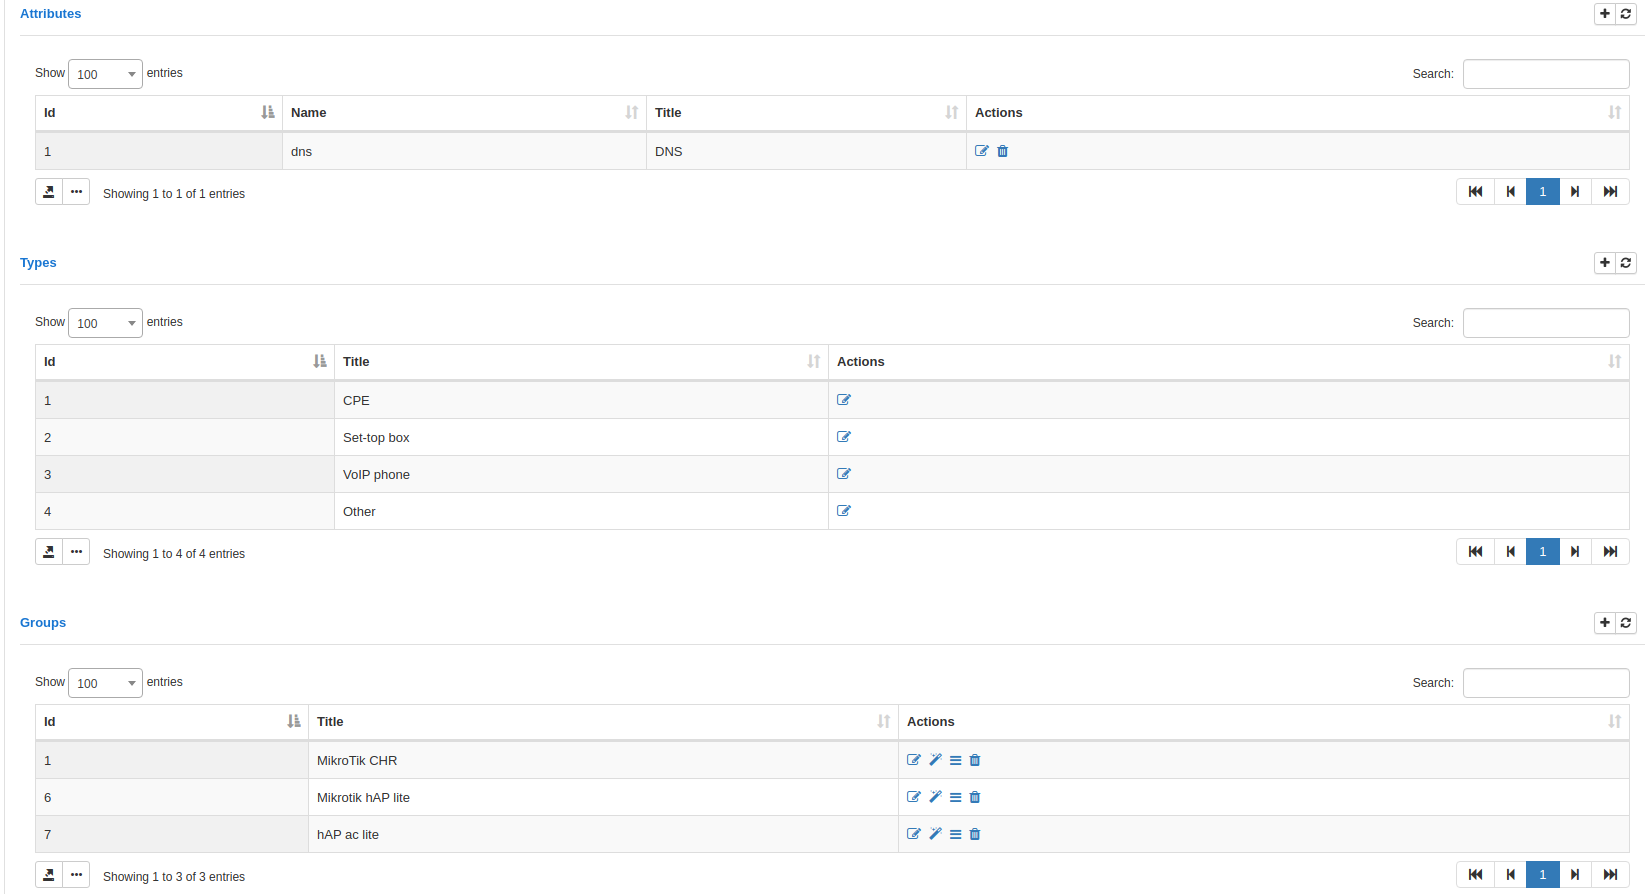
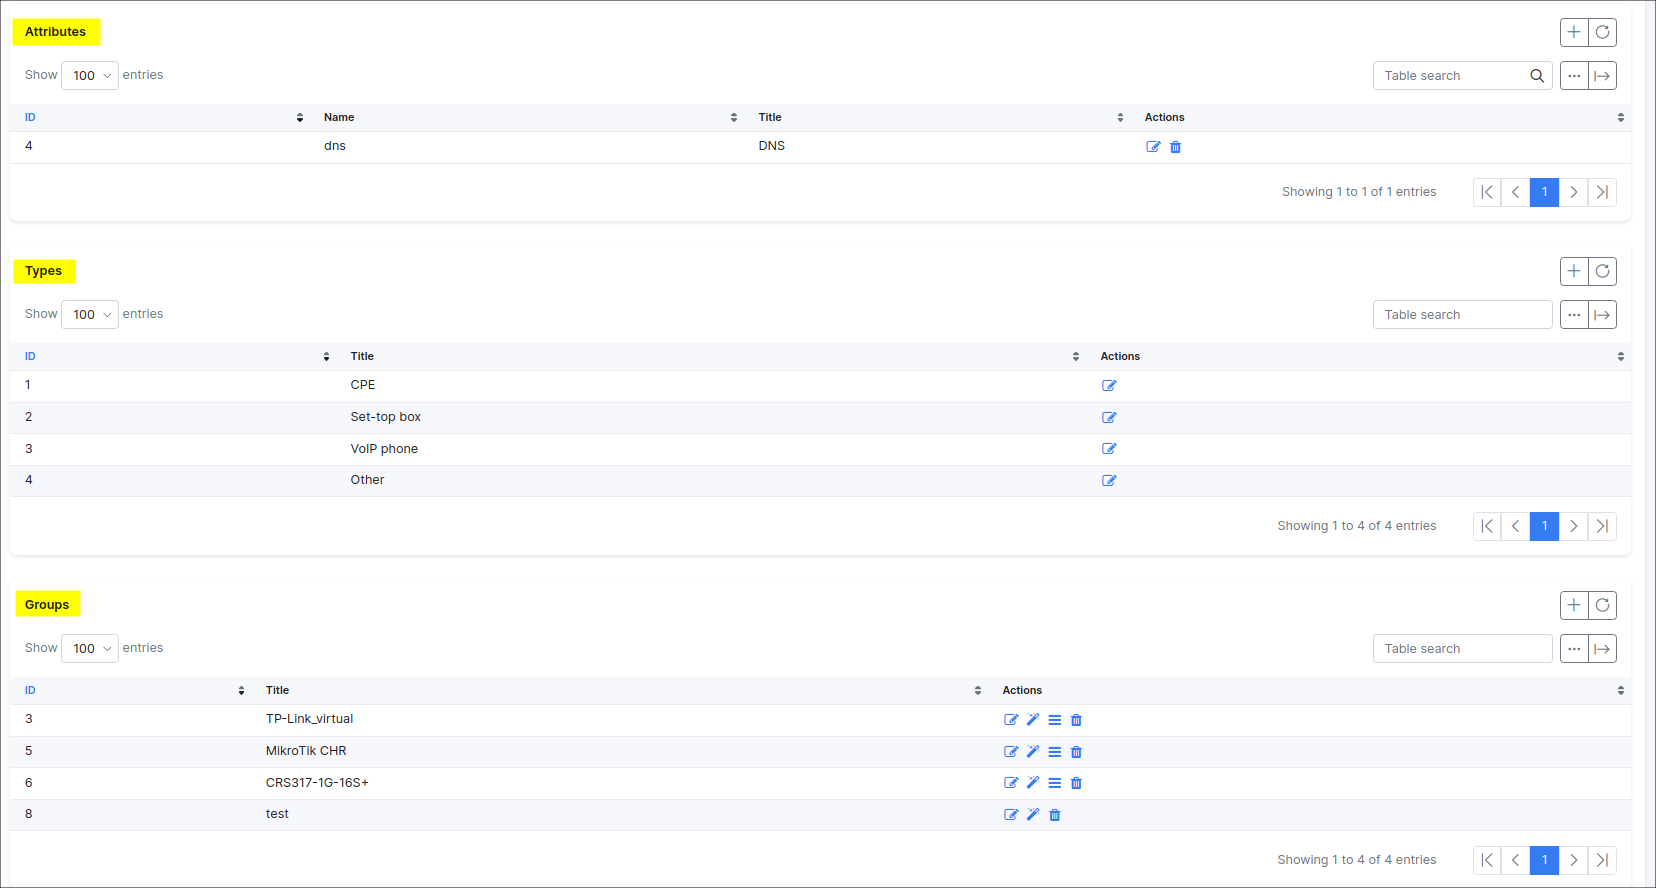
added new info to dev_connection_types_groups_provision

diff --git a/files/en/networking/tr069_acs/dev_connection_types_groups_provision/dev_connection_types_groups_provision.md b/files/en/networking/tr069_acs/dev_connection_types_groups_provision/dev_connection_types_groups_provision.md
@@ -25,21 +25,21 @@ Click on **TR069** item and configure **connection to the ACS server**:
 
 1. Put the check-mark to **Enable** client;
 
-2. Put your **ACS URL** - it's a *URL* from menu on **step 3** for a *CWMP* (ends with port `:7547/`);
+2. Put your **ACS URL** - it's a *URL* from menu on [step 3](networking/tr069_acs/services_server_config/services_server_config.md) for a *CWMP* (ends with port `:7547/`);
 
 ![URL](urls.png)
 
 In our example, we are using the *domain name* instead of IP address - *192.168.105.80*.
 
-3. Specify username and password with values from **global** parameters (**step 1**);
+3. Specify username and password with values from **global** parameters ([step 1](networking/tr069_acs/services_server_config/services_server_config.md));
 
-4. Enable **Periodic Inform Enabled** option.
+4. Enable **Periodic inform interval (seconds)** option.
 
 After these steps you should have the next result:
 
 ![connected](connected_device.png)
 
-The values in **Connection Request Username** and **Connection Request Password** fields should appear automatically. **Do not change these values unless absolutely necessary** (e.g. when you need to reconnect your device with an ACS server, these values can be removed and re-enable client - with new connection you will see a new values)..
+The credentials in **Connection Request Username** and **Connection Request Password** fields should appear automatically. **Do not change these credentials unless absolutely necessary** (e.g. when you need to reconnect your device with an ACS server, these values can be removed and re-enable client - with new connection you will see a new credentials).
 
 **IMPORTANT (for Mikrotik devices only)**: if you are using **HTTPS/SSL** on your Splynx server you can get **an error about SSL, asking for the local certificate**. In this case you need to run 2 commands in Mikrotik terminal:
 
@@ -51,7 +51,7 @@ The values in **Connection Request Username** and **Connection Request Password*
 ```
 
 <details style="font-size: 15px; margin-bottom: 5px;">
-<summary><b>To remove the expired cert use the next</b></summary>
+<summary><b>To remove the expired certificate use the next command</b></summary>
 <div markdown="1">
 
 Example:
@@ -65,7 +65,7 @@ Example:
 </div>
 </details>
 
-and **do not change any other config in TR-069 client** (**Client certificate** option must be "none"), just **re-enable TR-069 client**.
+and **do not change any other config in TR-069 client** (`Client certificate` **option must be `none`**), just **re-enable TR-069 client**.
 
 After that device will be registered under GenieACS:
 
@@ -77,7 +77,7 @@ as well as under Splynx:
 
 Devices can be in the following statuses: `Online`, `Online today`, `Offline`.
 
-Main parameters for ACS are configured and device is connected so you can manage the device remotely now. Also we have a few more options to configure: **Attributes**, **Types** and **Groups**.
+Main parameters for ACS are configured and device is connected so you can manage the device remotely now. Also we have a few more options to configure: **Attributes**, **Types** and **Groups** in `Config → Networking → TR-069 (ACS)`.
 
 ![additional config](more_config.png)
 
@@ -89,19 +89,31 @@ Simply add different types of devices:
 
 ## Groups:
 
-**NOTE!** Before configuring ACS groups you need to connect some device to ACS server.
+**NOTE!** Before configuring ACS groups you need to connect some device to ACS server (navigate to `Networking → Routers → Add` and follow the steps of wizard, TR-069 should be configured on the router).
 
-Under groups you can create new entries to group devices.
+Under **Groups** you can create new entries to group devices. Press **Add** button and in a new window select the required parameters, the inventory [product](inventory/products/products.md) name (if existed), selected photo of device etc.
+
+<icon class="image-icon">![image](warning.png)</icon> **IMPORTANT**
+
+It is recommended that you leave the option **Auto provisioning** `disabled` **to prevent an automatic upload of an incomplete configuration to your device.
+Otherwise, the current device configuration can be erased and it can be unavailable remotely**.
 
 ![groups](groups.png)
 
-Here can be selected the next parameters and the inventory [product](inventory/products/products.md) name (if existed), selected photo of device etc. You can use auto-provision feature to grab some parameters from a device.
 
 ## Provisioning flow
 
-Groups is used for **auto-provision** devices and load device's parameters and properties from the correct TR069 attributes.
+**Groups** are used for **auto-provision** devices and load device's parameters and properties with the correct TR069 attributes.
 
-Once some device is added you can create a group base on that device, provision the configuration parameters from that device, edit such parameters and save. After that these parameters can be used for configuration of other devices based on this group, using previously exported parameters.
+Once some device is added you can create a group base on that device, grab the configuration parameters from that device, edit such parameters and save (in this case, use `I have one device and ready to play with manual insert of parameters` provision configuration flow).
+
+**IMPORTANT**
+
+When the correct configuration is grabbed from the device, **it's recommended to remove unnecessary attributes and leave only those attributes that you plan add/update etc. on other devices**.
+
+After that these attributes can be used for configuration of other devices based on this group, using previously exported parameters.
+
+Click on <icon class="image-icon">![image](provision_flow_icon.png)</icon> (Provision flow) icon and choose the necessary option
 
 ![wizzard](wizzard.png)
 
@@ -118,7 +130,7 @@ We have a few options here:
 | **I have a configuration file for import and want to import this file**  | in this step you need to import a .csv file with a configuration what can be imported  |
 | **I want to insert config manually**  | manual way to configure a device |
 
-If to choose **I want to insert config manually** step, you will see a window with the editor of device objects with its attributes. In this configuration menu you can **create** new object and attribute related to the object, **update**, **delete**
+If you choose **I want to insert config manually** step, the configuration for the device can be created from scratch in Splynx. You will see a window with the editor of device objects with its attributes. In this configuration menu you can **create** new object and attribute related to the object, **update**, **delete**
 
 ![provisioning attributes](provisioning_attributes.png)
 
@@ -140,21 +152,25 @@ We can apply **4 actions to the object**:
 
 ![object actions](del_equal_condition.png)
 
-**Ignore statement** as an attribute option allows to use `---ignore---` value in the field to skip sending the attribute to the device.
+------------
+
+**Attribute options:**
+
+- **Ignore statement** as an attribute option allows to use `---ignore---` value in the field to skip sending the attribute to the device.
 
 ![image](ignore_statement.png)
 
-**Example**
+**Example:**
 
 ```
 {% if customer.login is not empty %}value{% else %}---ignore---{% endif %}
 ```
 
-**Template** as an attribute option helps to **use twig** to create provision template with conditional values.
+- **Template** as an attribute option helps to **use twig** to create provision template with conditional values.
 
 ![object actions](template_twig.png)
 
-**Examples**
+**Examples:**
 
 ```
 {{ customer.login }}.spl.rv.ua
@@ -172,13 +188,15 @@ We can apply **4 actions to the object**:
 {% if customer.custom.wifi_ssid is not empty %}{{ customer.custom.wifi_ssid }}{% else %}--ignore---{%endif %}
 ```
 
-Click on drop down menu to find out the correct variable of the value you need, e.g. **customer** (`{{ device.customer_id }}`), **model name** (`{{ device.model_name }}`), **IPv4 address** (`{{ internet_service.ipv4 }}`)
+Click on drop down menu to find out the correct variable of the value you need, e.g. **customer** (`{{ device.customer_id }}`), **model name** (`{{ device.model_name }}`), **IPv4 address** (`{{ internet_service.ipv4 }}`).
+
+Click **Save** button to save the changes in current configuration.
 
 By clicking on drop down arrow button near **Save**
 
 ![object actions](import_export.png)
 
-you can **preview**, **export settings to .csv file** (for future, use it for configuration of other devices)
+you can **preview**, **export settings to .csv file** (exported config file can be used for configuration of other devices)
 
 ![object actions](provision_preview.png)
 
@@ -188,3 +206,11 @@ you can **preview**, **export settings to .csv file** (for future, use it for co
 ![object actions](provision_import.png)
 
 or **clean up** the existing/loaded device config.
+
+When configuration is ready to upload to the device, navigate to `Config → Networking → TR-069 (ACS)`, find your device related group and in its **Edit** menu enable `Auto provisioning` option.
+
+Then, open `Networking → TR-069 (ACS) → Devices`, click on its serial number or **View** icon and at the top-right corner of the new page click on drop-down **Actions** menu and choose `Run provisioning` action to perform it for your device.
+
+![image](run_provisioning.png)
+
+After that, check if the settings on the device have changed.
